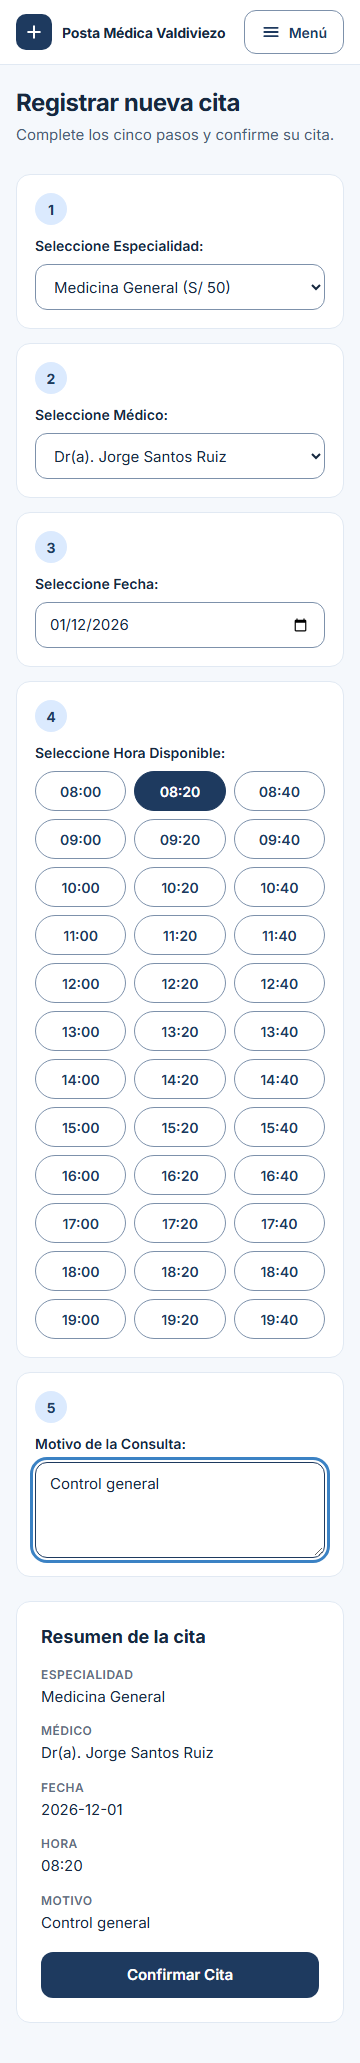
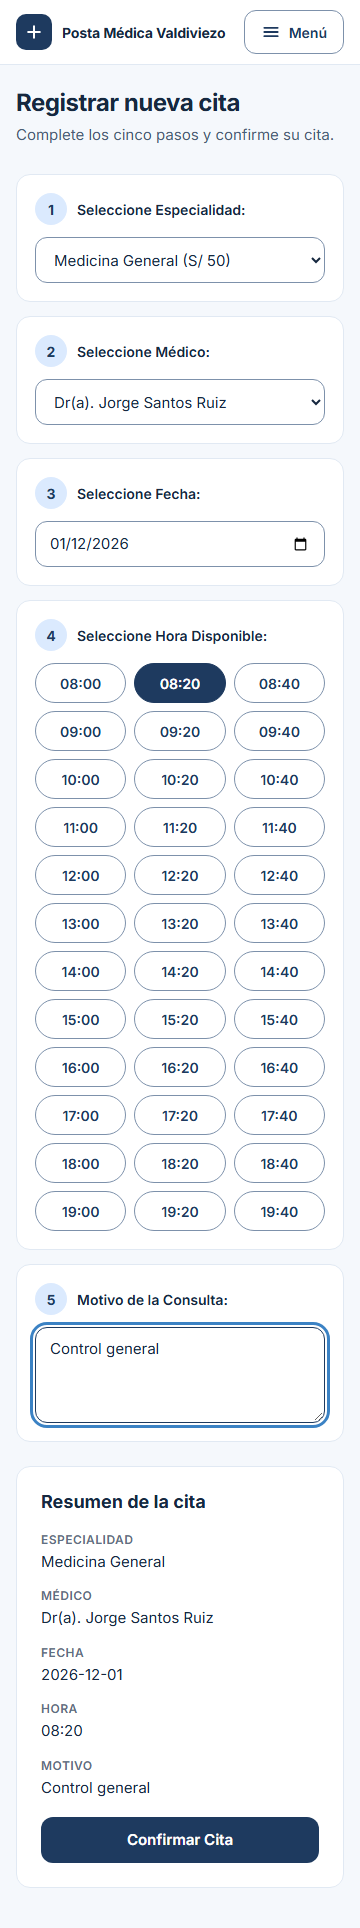
RFC-019: círculo numerado de cada paso de Registrar cita a la izquierda de su label, en la misma fila; prueba E09 y capturas

diff --git a/frontend/src/app/features/paciente/registrar-cita/registrar-cita.component.html b/frontend/src/app/features/paciente/registrar-cita/registrar-cita.component.html
@@ -9,9 +9,11 @@
 
       <!-- 1. Especialidad -->
       <section class="ui-card rc-step">
-        <span class="rc-step__num" aria-hidden="true">1</span>
         <div class="rc-step__body">
-          <label class="ui-label" for="rc-especialidad">Seleccione Especialidad:</label>
+          <div class="rc-step__head">
+            <span class="rc-step__num" aria-hidden="true">1</span>
+            <label class="ui-label" for="rc-especialidad">Seleccione Especialidad:</label>
+          </div>
           <select id="rc-especialidad" class="ui-input" [(ngModel)]="cita.id_especialidad" name="especialidad" (change)="cargarMedicos()" required>
             <option *ngFor="let esp of especialidades" [value]="esp.id_especialidad">
               {{ esp.nombre_especialidad }} (S/ {{ esp.precio }})
@@ -22,9 +24,11 @@
 
       <!-- 2. Médico -->
       <section class="ui-card rc-step">
-        <span class="rc-step__num" aria-hidden="true">2</span>
         <div class="rc-step__body">
-          <label class="ui-label" for="rc-medico">Seleccione Médico:</label>
+          <div class="rc-step__head">
+            <span class="rc-step__num" aria-hidden="true">2</span>
+            <label class="ui-label" for="rc-medico">Seleccione Médico:</label>
+          </div>
           <select id="rc-medico" class="ui-input" [(ngModel)]="cita.id_medico" name="medico" (change)="cargarHorarios()" required [disabled]="!cita.id_especialidad">
             <option *ngFor="let med of medicos" [value]="med.id_medico">
               Dr(a). {{ med.nombres }} {{ med.apellidos }}
@@ -35,18 +39,22 @@
 
       <!-- 3. Fecha -->
       <section class="ui-card rc-step">
-        <span class="rc-step__num" aria-hidden="true">3</span>
         <div class="rc-step__body">
-          <label class="ui-label" for="rc-fecha">Seleccione Fecha:</label>
+          <div class="rc-step__head">
+            <span class="rc-step__num" aria-hidden="true">3</span>
+            <label class="ui-label" for="rc-fecha">Seleccione Fecha:</label>
+          </div>
           <input id="rc-fecha" type="date" class="ui-input" [(ngModel)]="cita.fecha_cita" name="fecha" required [min]="minDate" (change)="cargarHorarios()">
         </div>
       </section>
 
       <!-- 4. Horario -->
       <section class="ui-card rc-step">
-        <span class="rc-step__num" aria-hidden="true">4</span>
         <div class="rc-step__body">
-          <span class="ui-label" id="rc-horas-label">Seleccione Hora Disponible:</span>
+          <div class="rc-step__head">
+            <span class="rc-step__num" aria-hidden="true">4</span>
+            <span class="ui-label" id="rc-horas-label">Seleccione Hora Disponible:</span>
+          </div>
           <div *ngIf="horariosDisponibles.length > 0" class="rc-pills" role="group" aria-labelledby="rc-horas-label">
             <button type="button"
                     *ngFor="let hora of horariosDisponibles"
@@ -66,9 +74,11 @@
 
       <!-- 5. Motivo -->
       <section class="ui-card rc-step">
-        <span class="rc-step__num" aria-hidden="true">5</span>
         <div class="rc-step__body">
-          <label class="ui-label" for="rc-motivo">Motivo de la Consulta:</label>
+          <div class="rc-step__head">
+            <span class="rc-step__num" aria-hidden="true">5</span>
+            <label class="ui-label" for="rc-motivo">Motivo de la Consulta:</label>
+          </div>
           <textarea id="rc-motivo" class="ui-input rc-motivo" [(ngModel)]="cita.motivo" name="motivo" rows="3" required></textarea>
         </div>
       </section>

diff --git a/e2e/tests/rediseno-paciente-pasos.spec.ts b/e2e/tests/rediseno-paciente-pasos.spec.ts
@@ -1,0 +1,46 @@
+import { test, expect } from '@playwright/test';
+
+// E09 (RFC-019, Parte 2, ajuste pedido por el usuario): en Registrar cita el círculo numerado de cada paso va a la
+// izquierda de su label, en la misma fila, centrado en vertical con el texto, a 10 px, y no se encoge si el label
+// ocupa dos líneas. Se mide a 360 y 768 px. Necesita backend (8080) y frontend (4200) y el paciente de e2e/tests/sesion-token.spec.ts.
+const FE = 'http://localhost:4200';
+
+for (const [ancho, alto] of [[360, 740], [768, 1024]]) {
+  test(`el círculo de cada paso queda a la izquierda de su label, centrado y a 10 px a ${ancho} px`, async ({ page }) => {
+    await page.setViewportSize({ width: ancho, height: alto });
+    await page.goto(`${FE}/login-paciente`);
+    await page.fill('input[name="dni"]', '12345678');
+    await page.fill('input[name="clave"]', '123456');
+    await page.click('button[type="submit"]');
+    await expect(page).toHaveURL(/\/welcome/);
+    await page.goto(`${FE}/paciente/registrar-cita`);
+    await expect(page.locator('.rc-step__head')).toHaveCount(5);
+
+    const pasos = await page.evaluate(() =>
+      [...document.querySelectorAll('.rc-step__head')].map((h) => {
+        const n = h.querySelector('.rc-step__num')!.getBoundingClientRect();
+        const l = h.querySelector('.ui-label')!.getBoundingClientRect();
+        return { aLaIzquierda: n.right <= l.left, separacion: Math.round(l.left - n.right), difCentro: Math.abs(n.top + n.height / 2 - (l.top + l.height / 2)), ancho: Math.round(n.width), alto: Math.round(n.height) };
+      })
+    );
+    for (const [i, p] of pasos.entries()) {
+      expect(p.aLaIzquierda, `paso ${i + 1}: el círculo está a la izquierda del label`).toBeTruthy();
+      expect(p.separacion, `paso ${i + 1}: separación`).toBe(10);
+      expect(p.difCentro, `paso ${i + 1}: centrado en vertical con el texto`).toBeLessThanOrEqual(1);
+      expect([p.ancho, p.alto], `paso ${i + 1}: tamaño del círculo`).toEqual([32, 32]);
+    }
+
+    // Con un label de dos líneas el círculo no se encoge y sigue centrado con el texto
+    const largo = await page.evaluate(() => {
+      const h = document.querySelector('.rc-step__head')!;
+      const l = h.querySelector('.ui-label')!;
+      l.textContent = 'Seleccione la especialidad médica que necesita para su consulta de este control general programado';
+      const n = h.querySelector('.rc-step__num')!.getBoundingClientRect();
+      const lb = l.getBoundingClientRect();
+      return { ancho: Math.round(n.width), alto: Math.round(n.height), lineas: lb.height > 30, difCentro: Math.abs(n.top + n.height / 2 - (lb.top + lb.height / 2)) };
+    });
+    expect(largo.lineas, 'el label ocupa más de una línea').toBeTruthy();
+    expect([largo.ancho, largo.alto]).toEqual([32, 32]);
+    expect(largo.difCentro).toBeLessThanOrEqual(1);
+  });
+}

diff --git a/frontend/src/app/features/paciente/registrar-cita/registrar-cita.component.css b/frontend/src/app/features/paciente/registrar-cita/registrar-cita.component.css
@@ -11,16 +11,25 @@
 }
 
 .rc-step {
-  display: flex;
-  align-items: flex-start;
-  gap: 16px;
   padding: 20px 22px;
+}
+
+/* Fila del título: el círculo a la izquierda del label, alineado en vertical con su texto, a 10 px */
+.rc-step__head {
+  display: flex;
+  align-items: center;
+  gap: 10px;
+}
+
+.rc-step__head .ui-label {
+  flex: 1;
+  min-width: 0;
 }
 
 .rc-step__num {
   display: grid;
   place-items: center;
-  flex: none;
+  flex-shrink: 0; /* no se encoge si el label ocupa dos líneas */
   width: 32px;
   height: 32px;
   font-size: 14px;
@@ -32,9 +41,8 @@
 
 .rc-step__body {
   display: flex;
-  flex: 1;
   flex-direction: column;
-  gap: 8px;
+  gap: 12px;
   min-width: 0;
 }
 
@@ -160,9 +168,6 @@ select.ui-input:disabled {
 
 @media (max-width: 480px) {
   .rc-step {
-    flex-direction: column;
-    align-items: stretch; /* con align-items: flex-start los campos se encogían a su contenido */
-    gap: 10px;
     padding: 18px;
   }
 }

diff --git a/docs/BITACORA.md b/docs/BITACORA.md
@@ -1764,4 +1764,11 @@ gh pr create --base develop --head master --title "Merge master (conteo de PR) e
 - **FALLAN 2 pruebas existentes de E06 (no se modificaron; decide el usuario):** Playwright total **45 pasan y 2 fallan**. Los dos casos de `rediseno-paciente-ajustes.spec.ts` ("la barra superior no cambia de alto…" y "la tecla Escape cierra el menú…") buscan `getByRole('button', { name: 'Menú' })`; con el cajón abierto ese nombre también coincide con "Cerrar menú" (la X que pidió el usuario) y fallan por "strict mode violation". No es un defecto de la aplicación: el localizador es ambiguo. Propuesta: `exact: true` en esos dos localizadores (E08 ya lo usa). CLAUDE.md prohíbe cambiar una prueba existente sin decisión del usuario, así que quedan en rojo hasta entonces.
 - **No ejecutado:** `mvn test` y la batería P01–P28 (el usuario indicó que no hacen falta si solo se toca el layout del paciente; solo se tocó ese layout y una regla global de `body.ui-sin-scroll`, que solo se activa con el cajón abierto). Sin registro de la regresión completa para este commit.
 - **Commit:** `d1609e9` (código, pruebas y capturas) y el de esta entrada. Servidores sin cambios: backend `java` PID 22108 (8080) y `ng serve` `node` PID 23220 (4200), los arrancados a las 19:57 por esta sesión.
+
+### [2026-11-26 20:30–20:35] RFC-019 (Parte 2): decisión sobre E06 y círculos de los pasos de Registrar cita
+- **E06 (decisión del usuario: aprobado `exact: true`):** commit `a3448dc`. Cambió solo el localizador del botón "Menú" en 3 líneas de `e2e/tests/rediseno-paciente-ajustes.spec.ts` (28, 29 y 38): `{ name: 'Menú' }` → `{ name: 'Menú', exact: true }`. **No se cambió ningún `expect`** ni su resultado esperado. Playwright completo después: 47 pasan, 0 fallan (resuelve las 2 en rojo de la entrada anterior).
+- **Círculos de los pasos (pedido del usuario):** *causa:* en la plantilla el círculo era hermano del bloque label + campo, y a ≤ 480 px el paso pasaba a columna, así que el círculo quedaba encima del label. *Cambio:* círculo y label van en una fila propia, `.rc-step__head` (`display: flex; align-items: center; gap: 10px`), y el campo queda debajo; el círculo tiene `flex-shrink: 0`. Solo `registrar-cita.component.{html,css}`: no cambian ids, names, `for`, textos ni lógica. *Medido* a 360, 768 y 1280 px en los 5 pasos: círculo a la izquierda del label, separación 10 px, diferencia de centros 0 px, 32×32 px; con un label de dos líneas (63 px de alto a 360 px) el círculo sigue en 32×32 y centrado.
+- **Prueba nueva:** E09 `rediseno-paciente-pasos.spec.ts` (2 casos, 360 y 768 px), documentada en `docs/PRUEBAS.md`. Pasa a la primera; no la comprobé contra el código anterior (la causa se vio en la captura a 360 px).
+- **Evidencia real (20:34:04–20:34:41, árbol sin commit, servidores ya encendidos):** `ng build` exit 0; frontend 83/83; Playwright **49/49** (47 + E09). Capturas `despues-paciente-registrar-cita-*` regeneradas a 360, 768, 1280 y 1920 px (revisé la de 360). Sin `mvn test` ni batería (solo cambia una plantilla del paciente).
+- **Servidores sin cambios:** backend `java` PID 22108 (8080) y `ng serve` `node` PID 23220 (4200).
 - **Decisiones del usuario (hora exacta: sin registro; la entrada se escribió a las 21:47):** (1) franja de próxima cita **sin llamada nueva a la API** (opción A): `/welcome` no carga citas y agregar una llamada estaba prohibido; la próxima cita real queda para una RFC aparte. (2) No mostrar horas ocupadas (el componente solo lista las libres; mostrarlas cambiaría `horarios-cita.ts`, el conteo de `button.rounded-pill` y la batería): el estilo atenuado queda en el CSS. (3) Se quita el botón "Volver" de las pantallas del paciente (redundante con el menú lateral; ninguna prueba lo usa).

diff --git a/docs/PRUEBAS.md b/docs/PRUEBAS.md
@@ -891,6 +891,9 @@ Script de la base de datos (desde LB-4): `database/BDPostaMedica.sql`.
 **E2E nueva (RFC-019, ajuste de las pantallas de acceso, 2026-11-26):** `e2e/tests/rediseno-acceso-centrado.spec.ts` (**E07**, 4 casos; solo necesita el frontend). A 1280×800, 1920×1080 y 2560×1440, en `/login-paciente`, `/login-medico`, `/login-admin` y `/registro`: el centro del formulario (del selector de rol, o del `h1` en el registro, al botón) coincide con el centro del bloque azul y con el de la ventana (± 2 px); el enlace "¿Aún no tiene cuenta?" / "¿Ya tiene cuenta?" queda a 32 px o menos del botón; y al enviar vacío el formulario y el botón no se mueven. A 360×740 el aviso queda justo bajo el botón, antes del enlace, y dentro de la pantalla. **E03 y E04 no se tocaron y pasan.**
 
 **E2E nueva (RFC-019, Parte 2, cajón del menú en celular):** `e2e/tests/rediseno-paciente-cajon.spec.ts` (**E08**, 6 casos; backend y frontend). A 360×420 y 768×300 (ventanas bajas, para que Mis citas sea una página larga), con la página arriba y abajo: la barra superior queda pegada al borde (y = 0); al abrir, el cajón (`#pl-cajon`) es de posición fija, arranca en x = 0, y = 0, mide toda la altura de la ventana, hay fondo oscuro y la página no se mueve (`scrollY` igual); el foco va al cajón; `body` queda con `overflow: hidden`, la rueda no desplaza la página y `main.pl-main` queda con `inert`; se cierra con la X (`button.pl-close`, `aria-label="Cerrar menú"`), tocando el fondo oscuro y con Escape, y en los tres casos el foco vuelve al botón "Menú" y el scroll queda igual. Además: al elegir una opción se navega y el scroll queda libre, y a 1280 px el menú lateral sigue igual (260 px, `sticky`, sin barra superior, sin X ni fondo). **Cambio de comportamiento conocido (decisión del usuario):** el menú ya no se despliega en el flujo bajo la barra, sino como cajón; por eso los cambios de E06 de abajo.
+**E2E nueva (RFC-019, Parte 2, círculos de los pasos):** `e2e/tests/rediseno-paciente-pasos.spec.ts` (**E09**, 2 casos, 360 y 768 px; backend y frontend). En Registrar cita, en cada uno de los 5 pasos el círculo (`.rc-step__num`) queda a la izquierda del label, a 10 px, con el centro a 1 px o menos del centro del texto y de 32×32 px; con un label de dos líneas el círculo sigue en 32×32 y centrado.
+
+- **Resuelto (2026-11-26, aprobado por el usuario):** el conflicto con E06 de abajo se resolvió agregando `exact: true` a los localizadores del botón "Menú" (3 líneas, ningún `expect` cambiado); Playwright 47 de 47. Texto original del conflicto:
 - **Conflicto con E06 (no modificado; decide el usuario):** el pedido exige `aria-label="Cerrar menú"` en la X. Dos casos de `e2e/tests/rediseno-paciente-ajustes.spec.ts` (E06: "la barra superior no cambia de alto…" y "la tecla Escape cierra el menú…") buscan el botón con `getByRole('button', { name: 'Menú' })`, que por ser una coincidencia parcial también encuentra "Cerrar menú" cuando el cajón está abierto y falla por "strict mode violation". No es un defecto de la aplicación: el localizador es ambiguo. Con el cajón cerrado la X está oculta (`visibility: hidden`) y no estorba. Solución propuesta: agregar `exact: true` a esos dos localizadores (E08 ya lo usa). Resultado actual: Playwright 45 pasan y 2 fallan (esos dos); ver `docs/BITACORA.md`.
 
 > **Hotfix RFC-010:** U33–U41, `AuthControllerTest`, U80 y U81 cambiaron solo la construcción de los autenticadores (reciben un `PasswordEncoder`) y guardan el hash en las entidades simuladas; sus aserciones son las mismas. U55 solo agrega un `@Spy PasswordEncoder`. U49 cambió de sentido (ver su fila). Detalle antes/después en `docs/rfc/RFC-010.md`.
